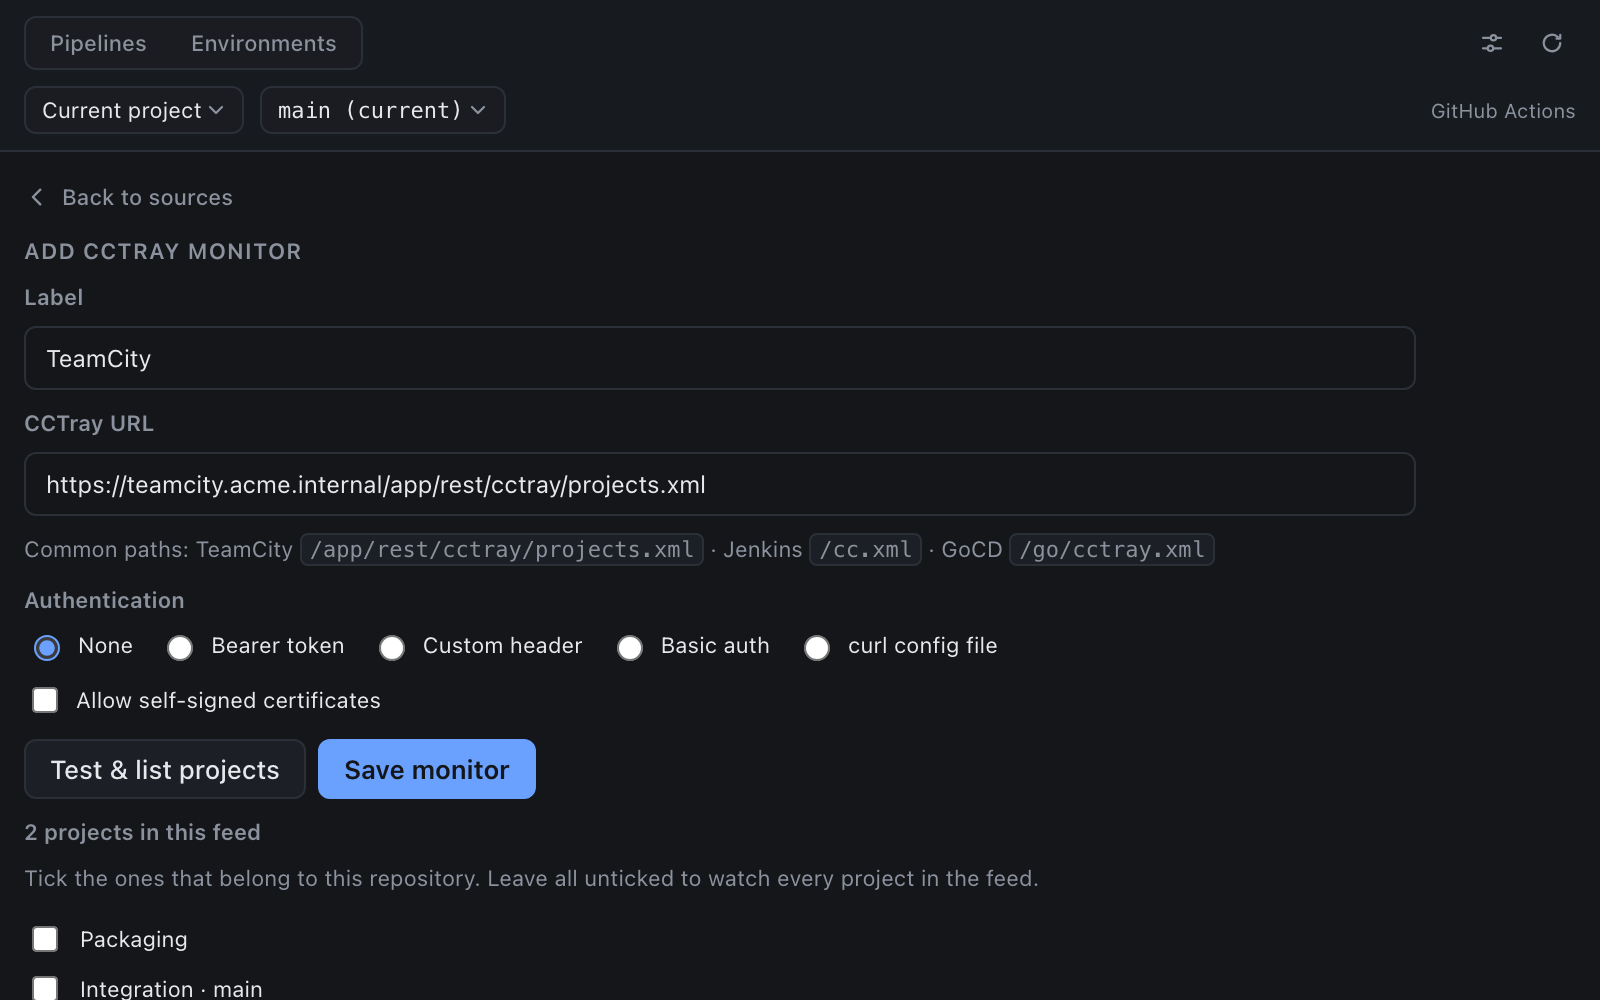
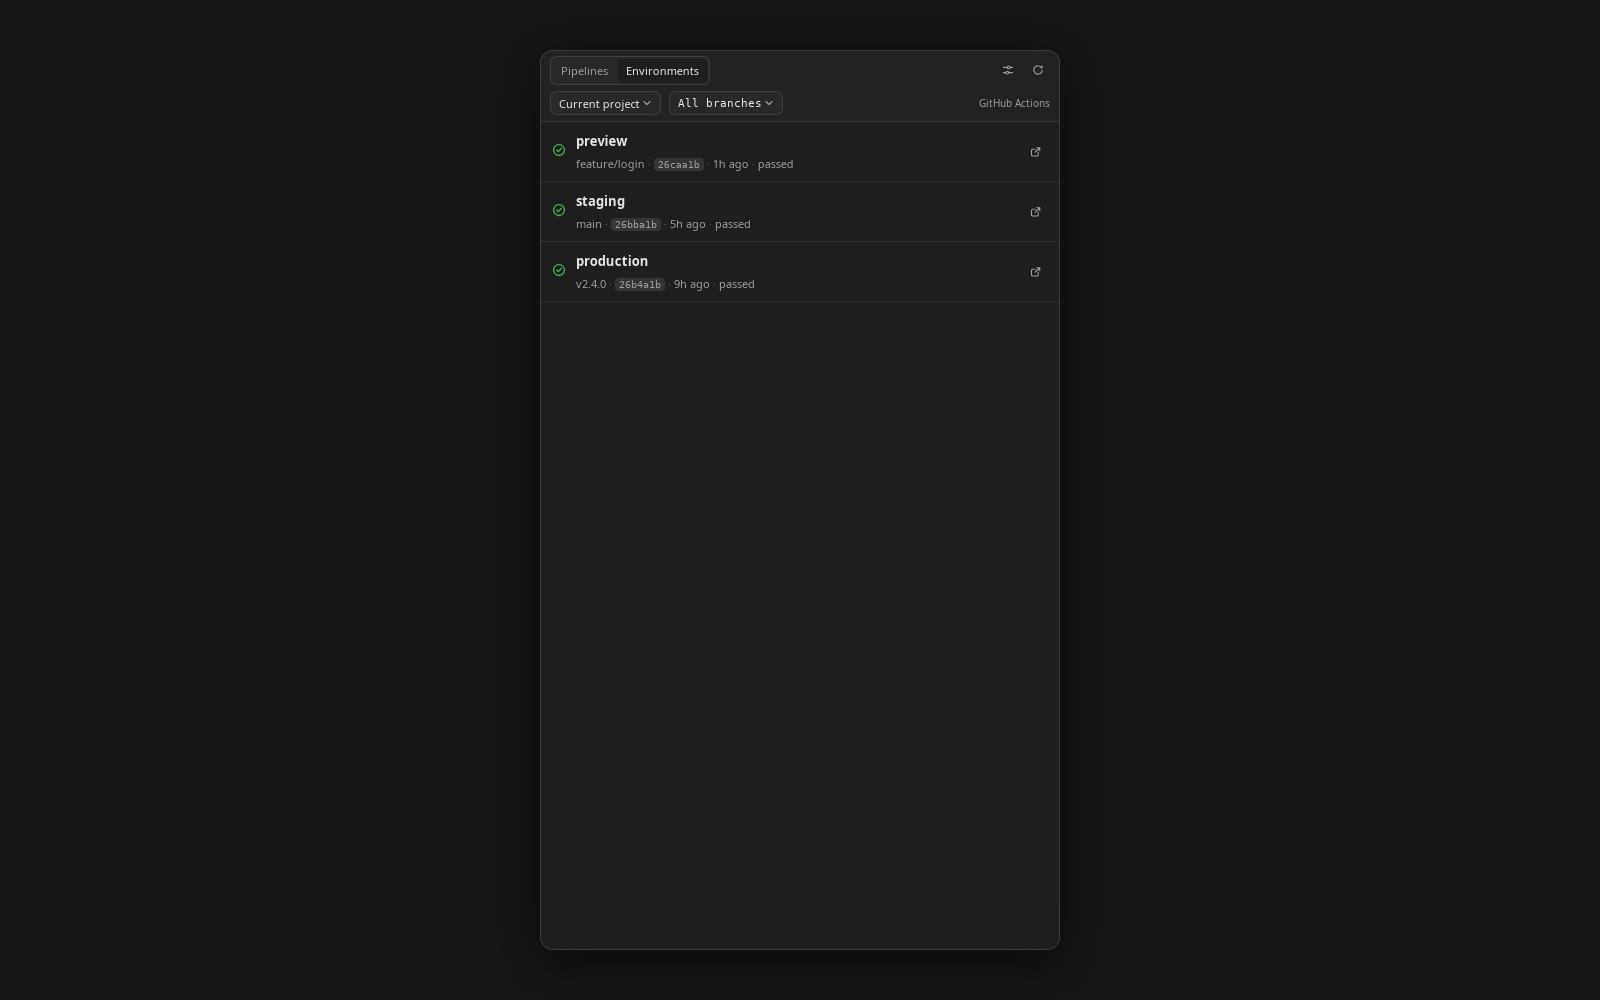
ci-dashboard 0.1.2 (#35)
* harness: ci-dashboard listing cases

* ci-dashboard: credits, version bump, release

* harness: ci-dashboard fixture tweaks

* ci-dashboard: replace listing screenshots with neutral renders

diff --git a/tools/harness/fixtures/ci-dashboard.js b/tools/harness/fixtures/ci-dashboard.js
@@ -1,0 +1,114 @@
+// Sample GitHub Actions data for the ci-dashboard extension: `gh` output served through atur.exec.
+(() => {
+  const h = window.__harness;
+  const scene = (h.data && h.data.scene) || "runs";
+  const ago = (hours) => new Date(Date.now() - hours * 3600 * 1000).toISOString();
+  const ROOT = "/home/dev/acme-web";
+  const SLUG = "acme/acme-web";
+  const sha = (n) => (n.toString(16) + "a1b2c3d4e5f60718293a4b5c6d7e8f9012345678").slice(0, 40);
+
+  const stored = {
+    sources: [{ id: "s-gh", kind: "github", label: "GitHub Actions", enabled: true }],
+    detectionDismissed: true,
+  };
+  h.memory.set("sources:v1:" + ROOT, stored);
+  h.memory.set("sources:v1:unknown", stored);
+
+  const run = (id, number, title, workflow, status, conclusion, branch, event, hoursAgo, minutes) => ({
+    databaseId: id, number, displayTitle: title, workflowName: workflow, status, conclusion,
+    headBranch: branch, headSha: sha(id), event,
+    createdAt: ago(hoursAgo), startedAt: ago(hoursAgo), updatedAt: ago(hoursAgo - minutes / 60),
+    url: "https://github.com/" + SLUG + "/actions/runs/" + id,
+  });
+  const job = (id, name, conclusion, steps) => ({
+    databaseId: id, name, status: "completed", conclusion, startedAt: ago(2), completedAt: ago(1.9),
+    url: "https://github.com/" + SLUG + "/actions/runs/9921/job/" + id,
+    steps: steps.map(([n, c], i) => ({ name: n, number: i + 1, status: "completed", conclusion: c })),
+  });
+
+  const runs = [
+    run(9930, 412, "Add OAuth login with GitHub provider", "CI", "in_progress", "", "main", "push", 0.1, 0),
+    run(9921, 411, "Fix flaky checkout test", "CI", "completed", "failure", "main", "push", 2, 7),
+    run(9915, 410, "Upgrade to Node 22", "CI", "completed", "success", "main", "push", 5, 6),
+    run(9908, 409, "Release v2.4.0", "Deploy", "completed", "success", "main", "workflow_dispatch", 9, 11),
+    run(9899, 408, "Dashboard: lazy-load chart widgets", "CI", "completed", "success", "main", "pull_request", 14, 6),
+    run(9890, 407, "Docs: document environment variables", "CI", "completed", "success", "main", "push", 22, 5),
+    run(9884, 406, "Nightly dependency audit", "Audit", "completed", "cancelled", "main", "schedule", 30, 2),
+    run(9877, 405, "Replace moment.js with date-fns", "CI", "completed", "success", "main", "push", 50, 6),
+  ];
+  const jobsFor = {
+    9921: [
+      job(1, "build", "success", [["Set up job", "success"], ["Checkout", "success"], ["Install dependencies", "success"], ["Build", "success"]]),
+      job(2, "lint", "success", [["Set up job", "success"], ["Run eslint", "success"]]),
+      job(3, "test", "failure", [["Set up job", "success"], ["Run unit tests", "failure"]]),
+      job(4, "e2e", "skipped", []),
+    ],
+  };
+  const failLog = [
+    ["test", "Run unit tests", "> acme-web@2.3.0 test"],
+    ["test", "Run unit tests", "> vitest run"],
+    ["test", "Run unit tests", " RUN  v1.6.0 /home/runner/work/acme-web"],
+    ["test", "Run unit tests", " \u2713 src/cart/totals.test.ts (12 tests)"],
+    ["test", "Run unit tests", " \u2717 src/checkout/submit.test.ts > submits the order"],
+    ["test", "Run unit tests", "AssertionError: expected 'pending' to be 'confirmed'"],
+    ["test", "Run unit tests", "    at src/checkout/submit.test.ts:48:21"],
+    ["test", "Run unit tests", " Test Files  1 failed | 14 passed (15)"],
+    ["test", "Run unit tests", "      Tests  1 failed | 96 passed (97)"],
+    ["test", "Run unit tests", "##[error]Process completed with exit code 1."],
+  ].map(([j, s, t]) => `${j}\t${s}\t${ago(2)} ${t}`).join("\n");
+
+  const deployments = [
+    { id: 1, environment: "production", ref: "v2.4.0", sha: sha(9908), created_at: ago(9), updated_at: ago(9) },
+    { id: 2, environment: "staging", ref: "main", sha: sha(9915), created_at: ago(5), updated_at: ago(5) },
+    { id: 3, environment: "preview", ref: "feature/login", sha: sha(9930), created_at: ago(1), updated_at: ago(1) },
+  ];
+
+  h.set("projects.list", async () => [{ id: "p1", name: "acme-web", path: ROOT, isActive: true }]);
+  h.set("git.repoInfo", async () => { return { root: ROOT, gitDir: ROOT + "/.git", isWorktree: false, currentBranch: "main" }; });
+  h.set("git.currentBranch", async () => "main");
+  h.set("git.branches", async () => ["main", "develop", "feature/login"]);
+  h.set("files.stat", async () => null);
+  h.set("exec", async (argv) => {
+    const out = (stdout) => ({ stdout, stderr: "", exitCode: 0 });
+    const json = (v) => out(JSON.stringify(v));
+    if (argv[0] === "which") return out("/usr/bin/" + argv[1] + "\n");
+    if (argv[0] === "git" && argv[1] === "cat-file") return out("");
+    if (argv[0] === "git" && argv[1] === "log") {
+      return out(["3f2a9c1\x1fLeo Park\x1fcheckout: await order confirmation in submit()",
+        "b81d0e7\x1fSam Ortiz\x1fchore: bump vitest to 1.6",
+        "9c4e5a2\x1fMaya Chen\x1fcart: recompute totals after coupon"].join("\n"));
+    }
+    if (argv[0] !== "gh") return out("");
+    if (argv[1] === "run" && argv[2] === "list") return json(runs);
+    if (argv[1] === "run" && argv[2] === "view") {
+      if (argv.includes("--log-failed")) return out(failLog);
+      const r = runs.find((x) => String(x.databaseId) === argv[3]);
+      return json({ ...r, jobs: jobsFor[r.databaseId] || [
+        job(11, "build", "success", [["Set up job", "success"], ["Build", "success"]]),
+        job(12, "test", "success", [["Set up job", "success"], ["Run unit tests", "success"]]),
+      ] });
+    }
+    if (argv[1] === "repo") return out(SLUG + "\n");
+    if (argv[1] === "api") {
+      const ep = argv[2];
+      if (/deployments\?/.test(ep)) return json(deployments);
+      if (/statuses/.test(ep)) return json([{ state: "success", environment_url: "https://" + (ep.includes("/1/") ? "app" : ep.includes("/2/") ? "staging" : "preview") + ".acme-web.example" }]);
+    }
+    return out("[]");
+  });
+
+  const sleep = (ms) => new Promise((resolve) => setTimeout(resolve, ms));
+  const until = async (test) => { for (let i = 0; i < 100 && !test(); i += 1) await sleep(100); };
+  window.addEventListener("load", async () => {
+    await until(() => document.querySelector(".run"));
+    if (scene === "detail") {
+      document.querySelector('.run[data-run="9921"]').click();
+      await until(() => document.querySelector(".detail__title"));
+    } else if (scene === "envs") {
+      document.querySelector("[data-view=envs]").click();
+      await until(() => document.querySelector(".env"));
+    }
+    await sleep(600);
+    window.__ready = true;
+  });
+})();

diff --git a/extensions/ci-dashboard/README.md b/extensions/ci-dashboard/README.md
@@ -129,3 +129,7 @@ npm test
 ```
 
 Then click **Reload** in the Atur Terminal Extensions modal.
+
+## Credits
+
+Originally published in muxy-app/extensions (MIT) by Eric Marchand. Maintained by Atur Terminal.
